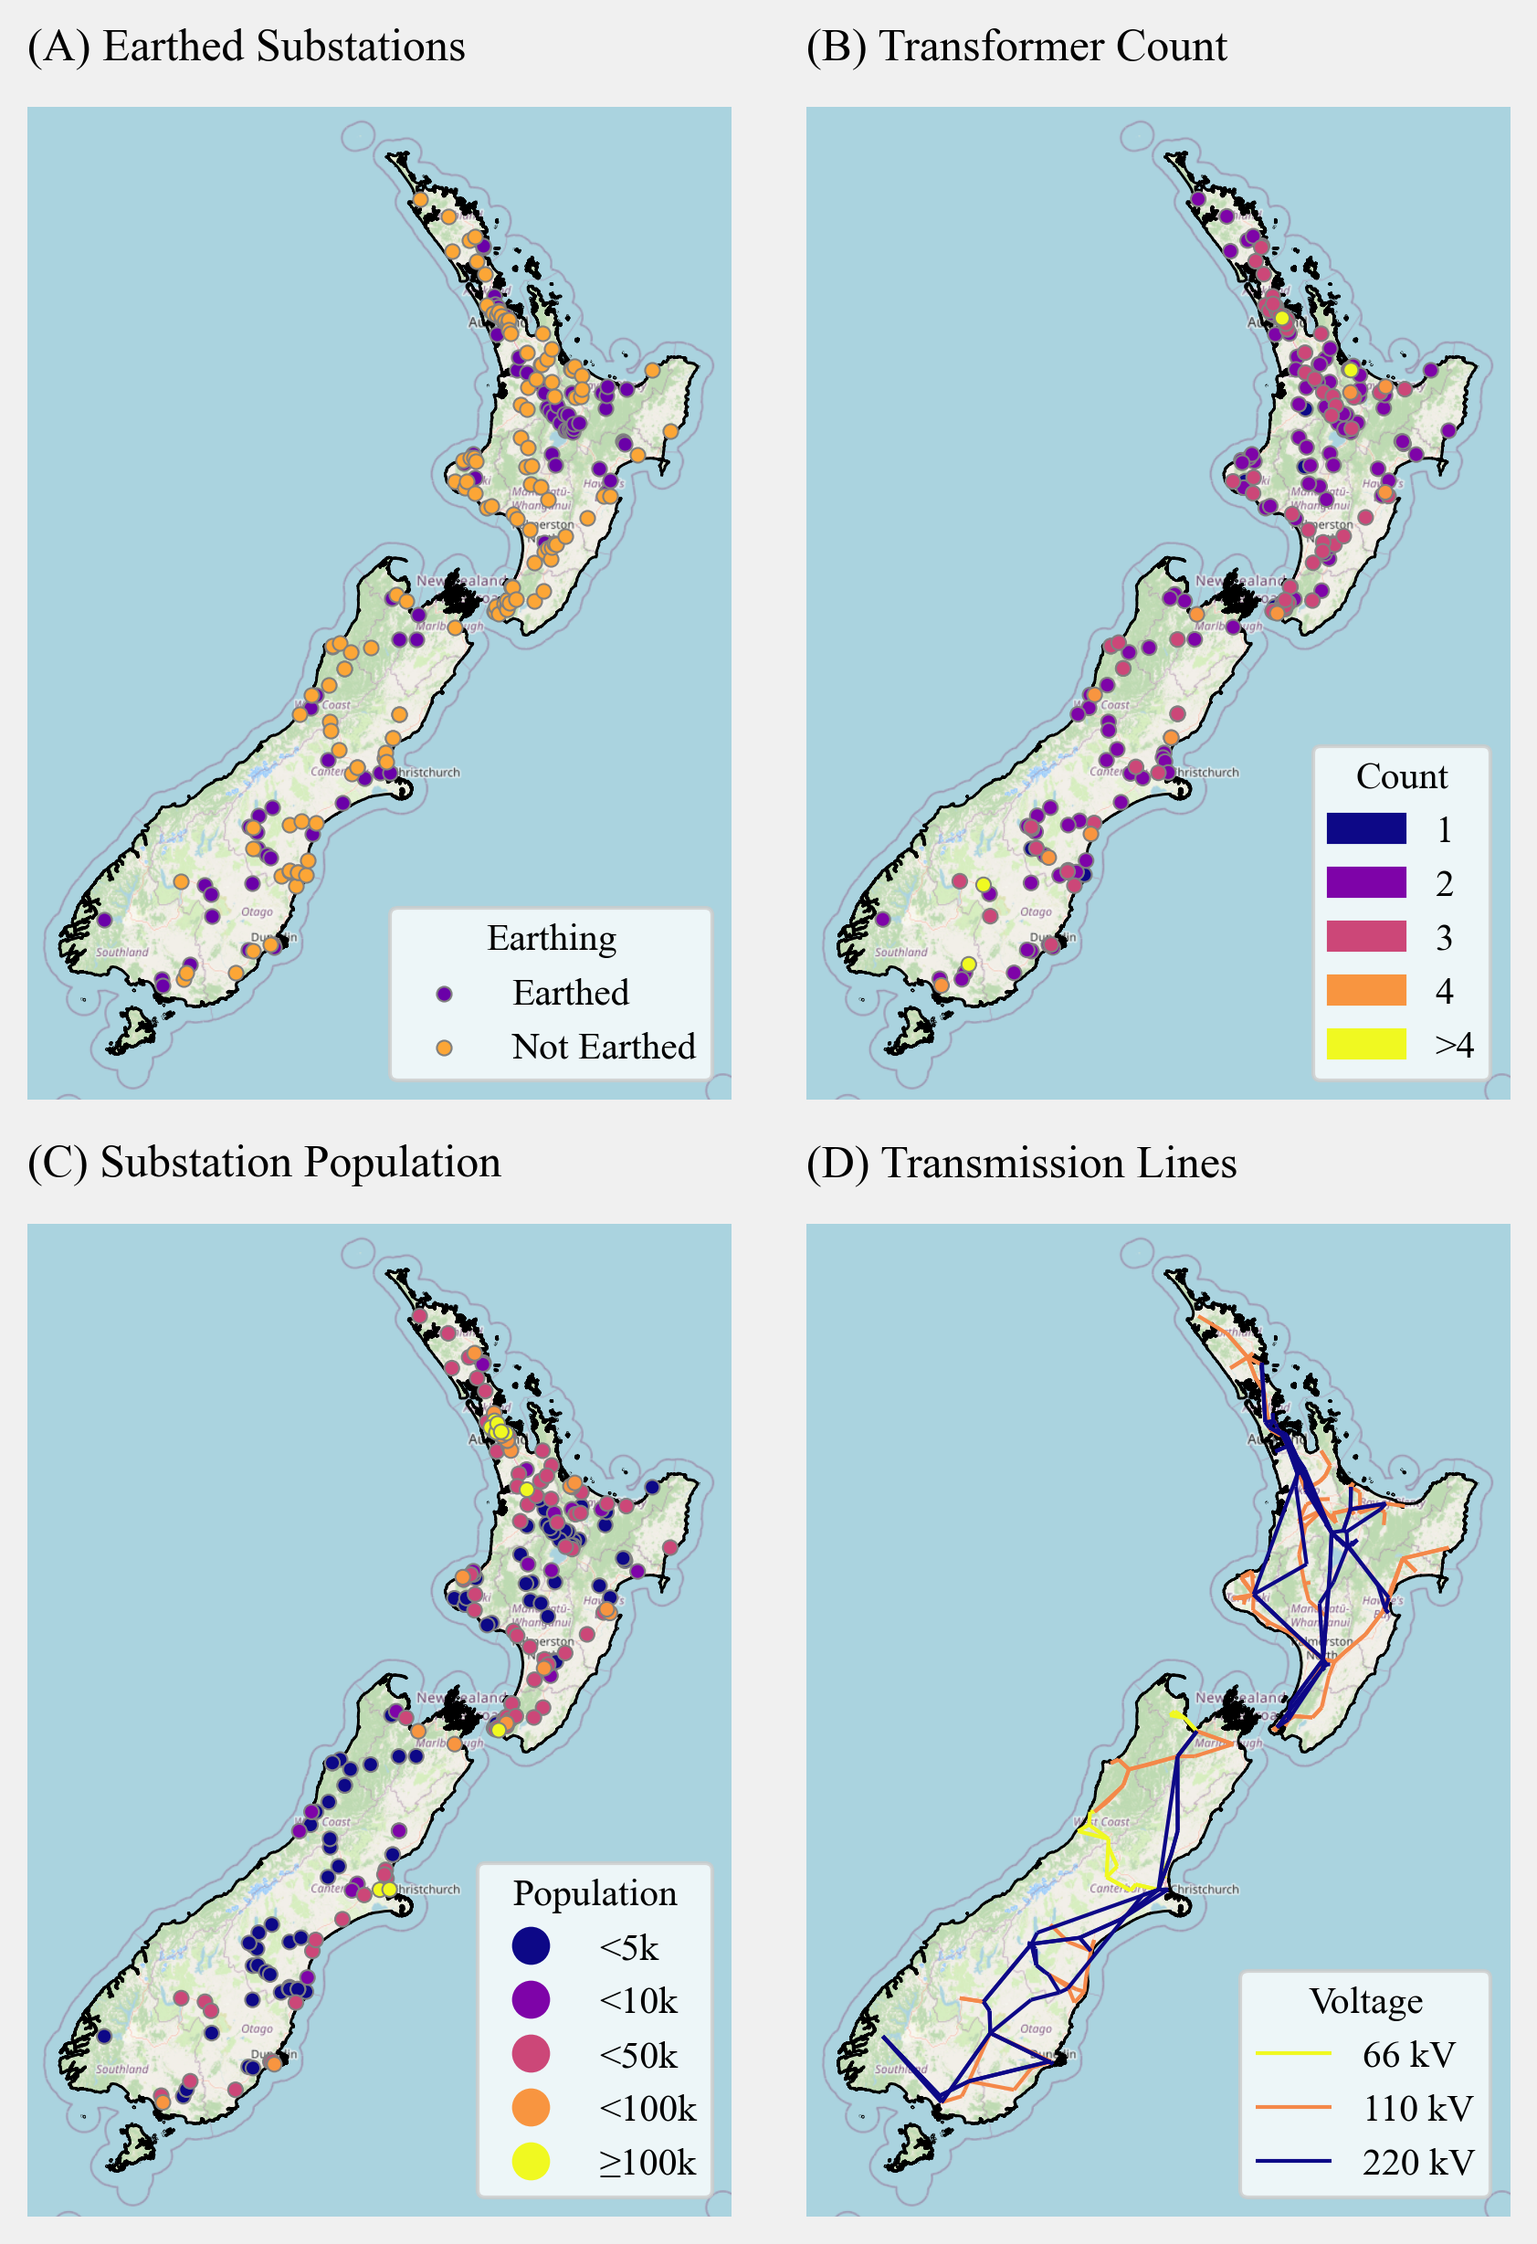
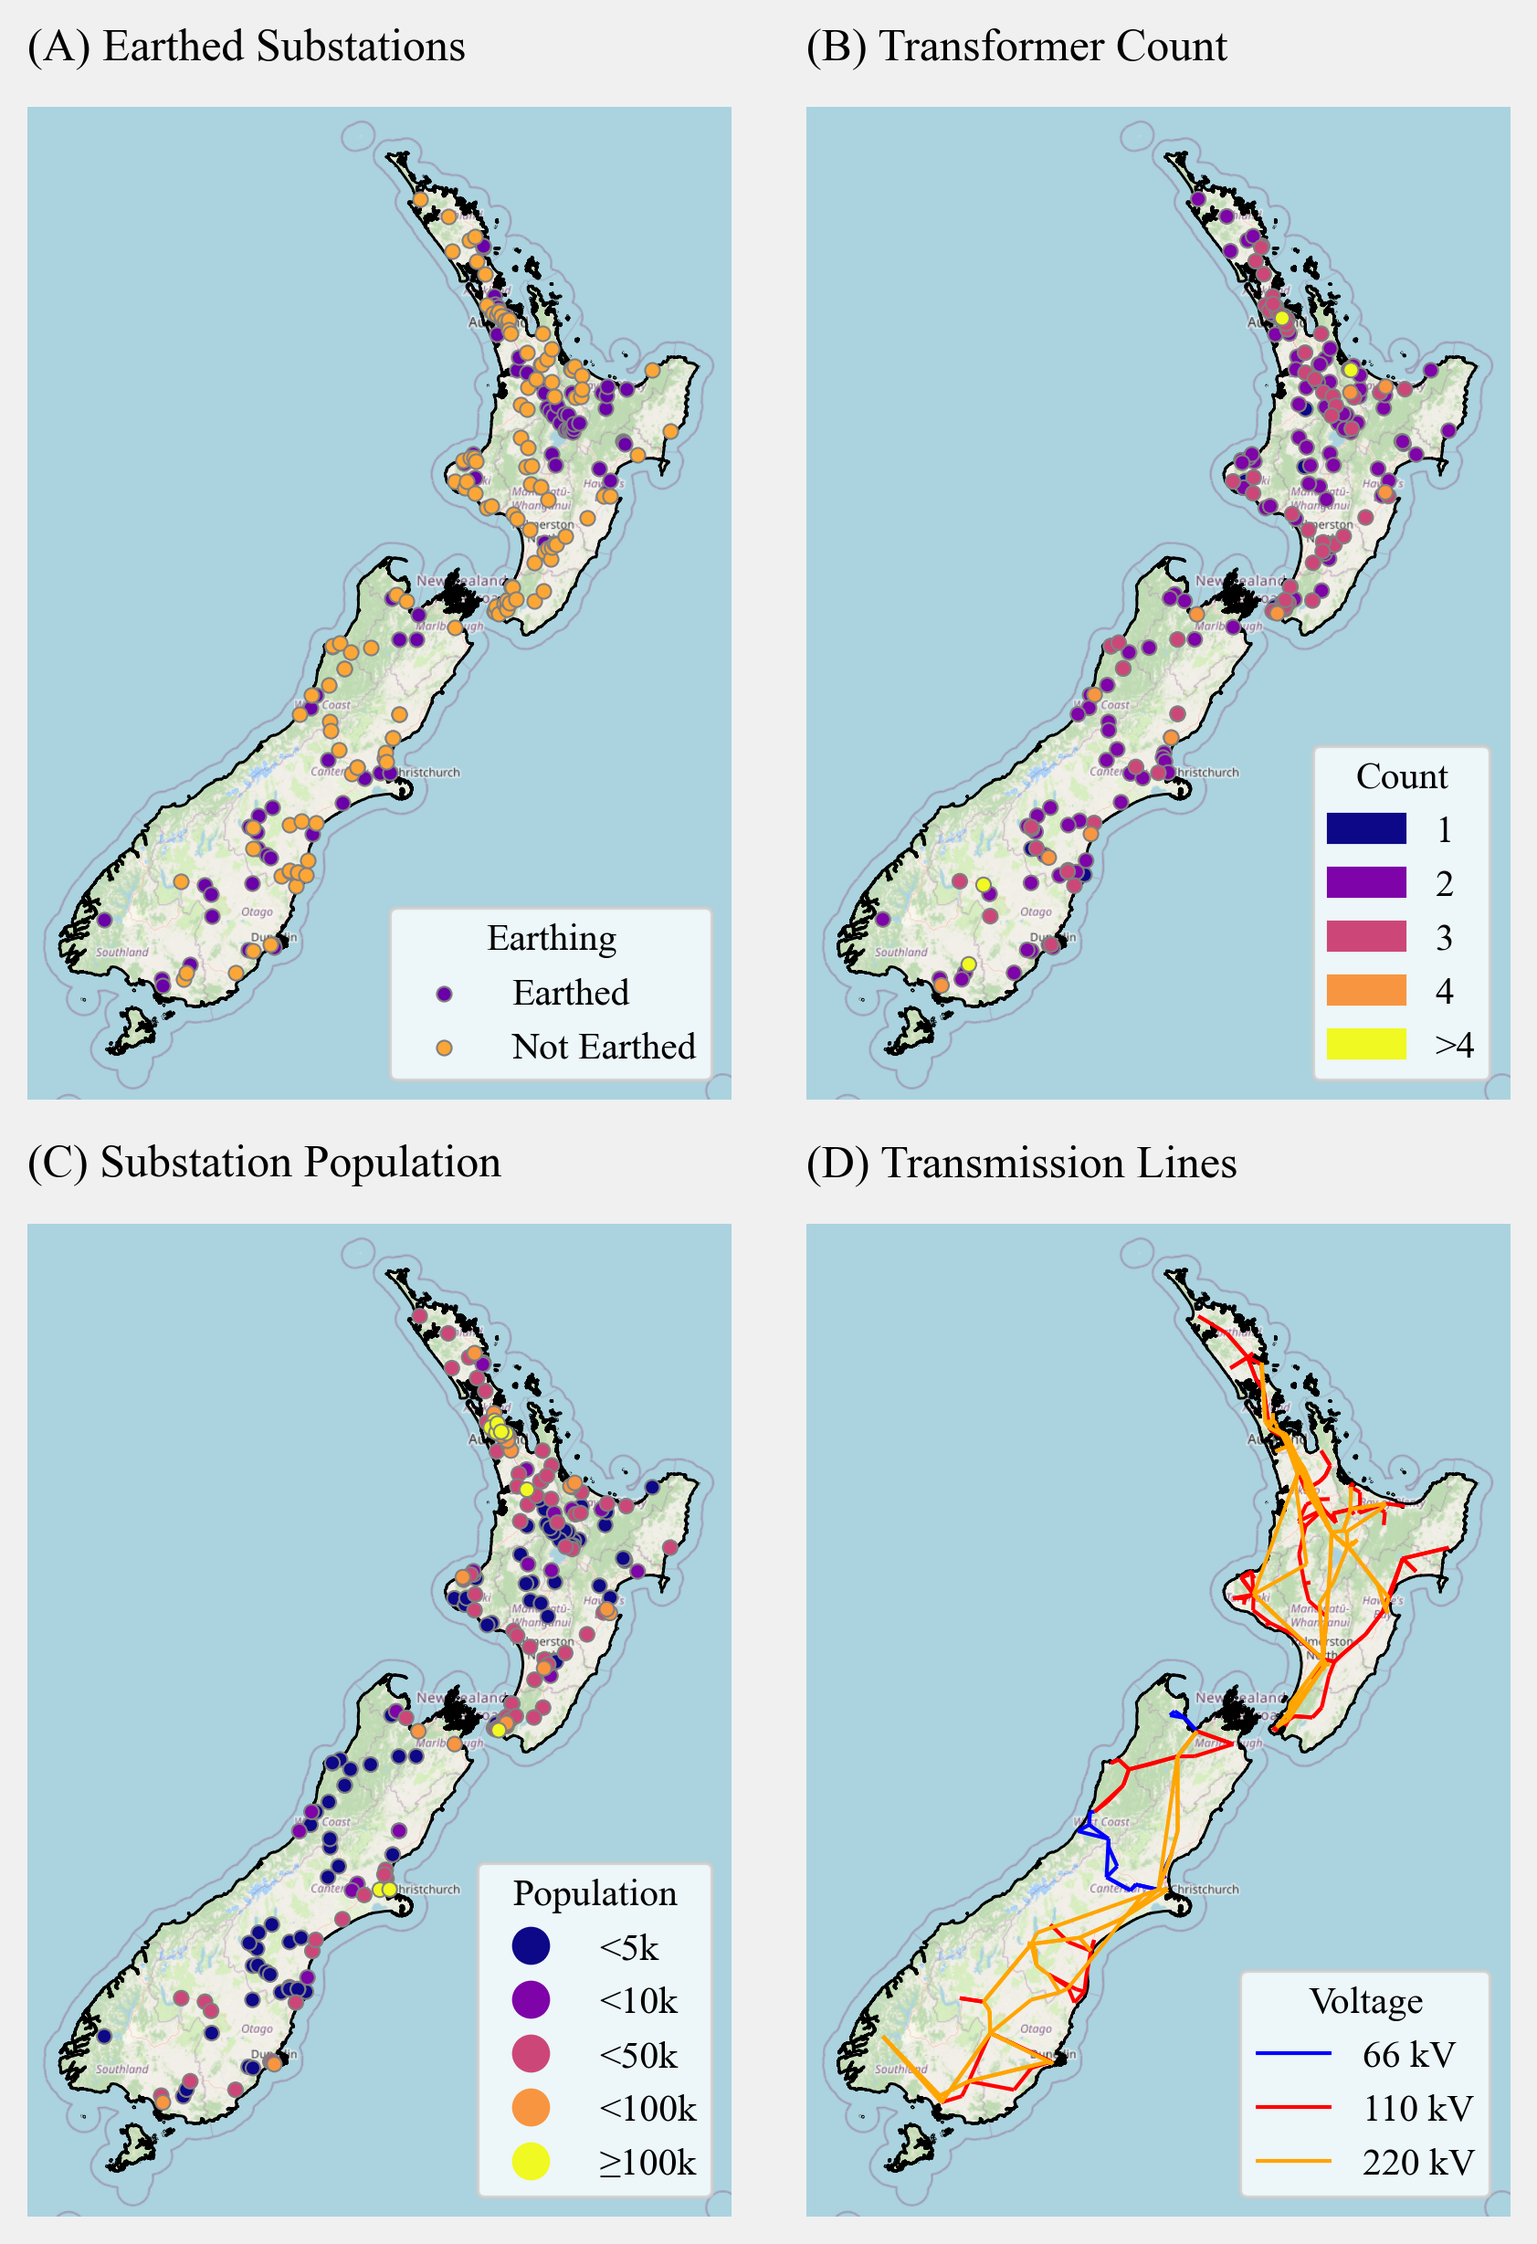
Revise scenarios

Changed region(s): [[0.6179, 0.7733, 0.8033, 0.928], [0.8033, 0.6496, 0.9269, 0.7733], [0.8033, 0.5877, 0.8342, 0.6496]]

diff --git a/scripts/preprocess.py b/scripts/preprocess.py
@@ -9,6 +9,7 @@ January 2025
 # import sys
 import os
 import configparser
+import numpy as np
 import pandas as pd
 import geopandas as gpd
 from shapely.geometry import Point, MultiPoint, LineString
@@ -20,7 +21,7 @@ from shapely.ops import voronoi_diagram
 from rasterstats import zonal_stats
 import pyproj
 from sklearn.neighbors import BallTree
-import numpy as np
+import networkx as nx
 
 CONFIG = configparser.ConfigParser()
 CONFIG.read(os.path.join(os.path.dirname(__file__),'..', 'scripts', 'script_config.ini'))
@@ -532,47 +533,6 @@ def process_lines(country):
     gdf.to_file(output_path)
 
 
-def process_scenario1(country):
-    """
-    
-    """
-    filename = 'population_by_node.gpkg'
-    folder = os.path.join(BASE_PATH, 'processed', 'NZL')
-    path_in = os.path.join(folder, filename)
-    data = gpd.read_file(path_in)
-
-    data['outage'] = 1
-    data['load_shedding'] = 0
-
-    filename = 'scenario1.csv'
-    folder = os.path.join(BASE_PATH, 'processed', 'NZL', 'scenarios')
-    os.makedirs(folder, exist_ok=True)
-    path_out = os.path.join(folder, filename)
-    data.to_csv(path_out)
-
-
-def process_scenario2(country):
-    """
-    
-    """
-    filename = 'population_by_node.gpkg'
-    folder = os.path.join(BASE_PATH, 'processed', 'NZL')
-    path_in = os.path.join(folder, filename)
-    data = gpd.read_file(path_in)
-
-    # Set outage = 1 for rows where island is 'north'
-    data.loc[data['island'] == 'north', 'outage'] = 1
-
-    # Set load_shedding = 1 for rows where island is 'south'
-    data.loc[data['island'] == 'south', 'load_shedding'] = 1
-
-    filename = 'scenario2.csv'
-    folder = os.path.join(BASE_PATH, 'processed', 'NZL', 'scenarios')
-    os.makedirs(folder, exist_ok=True)
-    path_out = os.path.join(folder, filename)
-    data.to_csv(path_out)
-
-
 def process_sioc_lut(country):
     """
     Extract SIOC lookup table
@@ -589,6 +549,284 @@ def process_sioc_lut(country):
     folder = os.path.join(DATA_PROCESSED, 'NZL')
     path_out = os.path.join(folder, filename)
     df.to_csv(path_out, index=False)
+
+
+def process_hydro_locations(country):
+    """
+    Process hydro locations.
+
+    """
+    filename = 'fuel_gen.csv'
+    folder = os.path.join(BASE_PATH, 'raw')
+    path_in = os.path.join(folder, filename)
+    data = pd.read_csv(path_in)
+    data = data[data['Fuel_Code'] == 'Hydro']
+
+    # Create geometry column from easting and northing
+    geometry = [Point(xy) for xy in zip(data["NZTM easting"], data["NZTM northing"])]
+
+    # Define the NZTM projection (EPSG:2193 is standard for NZTM2000)
+    gdf = gpd.GeoDataFrame(data, geometry=geometry, crs="EPSG:2193")
+    
+    filename = 'fuel_gen.gpkg'
+    folder = os.path.join(DATA_PROCESSED, 'NZL')
+    path_out = os.path.join(folder, filename)
+    gdf = gdf.to_crs(epsg=4326)
+    gdf.to_file(path_out)
+
+    return
+
+
+def generate_restoration_sequence(country):
+    """
+    Generate restoration sequence based on hydro locations and transmission lines.
+    """
+
+    # Load hydro sites
+    filename = 'fuel_gen.gpkg'
+    folder = os.path.join(DATA_PROCESSED, country['iso3'])
+    path_in = os.path.join(folder, filename)
+    hydro = gpd.read_file(path_in)
+    hydro = hydro.to_crs(2193)
+    hydro['geometry'] = hydro['geometry'].buffer(10)
+
+    # Load nodes
+    filename = 'population_by_node.gpkg'
+    path_in = os.path.join(folder, filename)
+    nodes = gpd.read_file(path_in)  # Assuming it's a GeoPackage
+    nodes = nodes.to_crs(2193)
+    nodes['restoration_stage'] = None  # Initialize restoration stage
+
+    # Load transmission lines
+    filename = 'transmission_lines.gpkg'
+    path_in = os.path.join(folder, filename)
+    lines = gpd.read_file(path_in)
+    lines = lines.to_crs(2193)
+    lines['geometry'] = lines['geometry'].buffer(100)
+
+    # Step 1: Hydro-intersecting nodes get stage 1
+    stage = 1
+    hydro_nodes = gpd.sjoin(nodes, hydro, predicate='intersects')
+    nodes.loc[hydro_nodes.index, 'restoration_stage'] = stage
+
+    # Build a connectivity graph from lines and nodes
+    G = nx.Graph()
+    for idx, row in nodes.iterrows():
+        G.add_node(idx, geometry=row.geometry)
+
+    for _, line in lines.iterrows():
+        intersecting_nodes = nodes[nodes.intersects(line.geometry)]
+        for i in range(len(intersecting_nodes)):
+            for j in range(i + 1, len(intersecting_nodes)):
+                a, b = intersecting_nodes.index[i], intersecting_nodes.index[j]
+                if not G.has_edge(a, b):
+                    dist = nodes.loc[a].geometry.distance(nodes.loc[b].geometry)
+                    G.add_edge(a, b, weight=dist)
+
+    # BFS to assign restoration stages
+    visited = set(hydro_nodes.index)
+    queue = list(hydro_nodes.index)
+    current_stage = 2
+
+    while queue:
+        next_queue = []
+        for node in queue:
+            for neighbor in G.neighbors(node):
+                if neighbor not in visited:
+                    visited.add(neighbor)
+                    nodes.at[neighbor, 'restoration_stage'] = current_stage
+                    next_queue.append(neighbor)
+        queue = next_queue
+        current_stage += 1
+
+    filename = 'restoration_sequence.gpkg'
+    folder = os.path.join(DATA_PROCESSED, 'NZL')
+    path_out = os.path.join(folder, filename)
+    nodes = nodes.to_crs(epsg=4326)
+    nodes.to_file(path_out)
+
+
+def process_scenario1(country):
+    """
+    Write a scenario with a 7-day power outage duration (d1-d7), as follows:
+
+    - d1, d2, d3: full blackout (1 = no power)
+    - d4 to d7: restoration begins, based on the "restoration_stage" column
+    - by d7, all areas have power (0 = power restored)
+
+    """
+    filename = 'restoration_sequence.gpkg'
+    folder = os.path.join(BASE_PATH, 'processed', 'NZL')
+    path_in = os.path.join(folder, filename)
+    data = gpd.read_file(path_in)
+
+    # Normalize restoration_stage to [0, 1]
+    data = data.copy()
+    if 'restoration_stage' not in data.columns:
+        raise ValueError("'restoration_stage' column not found in input data")
+
+    data['restoration_stage'] = pd.to_numeric(data['restoration_stage'], errors='coerce')
+    min_stage = data['restoration_stage'].min()
+    max_stage = data['restoration_stage'].max()
+    data['normalized_stage'] = ((data['restoration_stage'] - min_stage) / (max_stage - min_stage)) ** 0.5
+
+    # Days 1-3: Full blackout
+    for day in range(1, 4):
+        data[f'd{day}'] = 1
+
+    # Days 4-7: Gradual restoration
+    for day in range(4, 8):
+        threshold = (day - 3) / 4  # 0.25 for d4, 0.5 for d5, 0.75 for d6, 1.0 for d7
+        data[f'd{day}'] = (data['normalized_stage'] > threshold).astype(int)
+
+    # Drop helper column
+    data = data.drop(columns=['normalized_stage'])
+
+    # Save to CSV
+    filename = 'scenario1.csv'
+    folder = os.path.join(BASE_PATH, 'processed', 'NZL', 'scenarios')
+    os.makedirs(folder, exist_ok=True)
+    path_out = os.path.join(folder, filename)
+    data.to_csv(path_out, index=False)
+
+
+def process_scenario2(country):
+    """
+    Write a scenario with a 7-day power outage duration (d1-d7), as follows:
+
+    South Island (data['island'] == 'south'):
+    - d1-d3: full blackout (1 = no power),
+    - d4-d7: restoration begins, based on the "restoration_stage" column
+    - by d7, all areas have power (0 = power restored)
+
+    North Island (data['island'] == 'north'):
+    - d1-d7: load shedding of 20% (0.2 = load shedding),
+    - by d7, all areas have power (0 = power restored)
+
+    """
+    filename = 'restoration_sequence.gpkg'
+    folder = os.path.join(BASE_PATH, 'processed', 'NZL')
+    path_in = os.path.join(folder, filename)
+    data = gpd.read_file(path_in)
+
+    if 'restoration_stage' not in data.columns:
+        raise ValueError("'restoration_stage' column not found in input data")
+    if 'island' not in data.columns:
+        raise ValueError("'island' column not found in input data")
+
+    data = data.copy()
+    data['restoration_stage'] = pd.to_numeric(data['restoration_stage'], errors='coerce')
+
+    # Normalize restoration stage only for South Island (recovery case)
+    south_mask = data['island'].str.lower() == 'south'
+    data.loc[south_mask, 'normalized_stage'] = (
+        data.loc[south_mask].groupby('island')['restoration_stage'].transform(
+            lambda x: ((x - x.min()) / (x.max() - x.min())) ** 0.4
+        )
+    )
+
+    # Assign outage values for each day
+    for day in range(1, 8):
+        col = f'd{day}'
+
+        # South Island logic
+        if day <= 3:
+            data.loc[south_mask, col] = 1  # Full blackout
+        else:
+            threshold = (day - 3) / 4  # Gradual recovery d4–d7
+            data.loc[south_mask, col] = (data.loc[south_mask, 'normalized_stage'] > threshold).astype(int)
+
+        # North Island logic
+        if day <= 6:
+            data.loc[~south_mask, col] = 0.2  # Load shedding
+        else:
+            data.loc[~south_mask, col] = 0  # Fully restored
+
+    # Clean up
+    data = data.drop(columns=['normalized_stage'])
+
+    # Save to CSV
+    filename = 'scenario2.csv'
+    folder = os.path.join(BASE_PATH, 'processed', 'NZL', 'scenarios')
+    os.makedirs(folder, exist_ok=True)
+    path_out = os.path.join(folder, filename)
+    data.to_csv(path_out, index=False)
+
+
+def process_scenario3(country):
+    """
+    Write a scenario with a 7-day power outage duration (d1-d7), as follows:
+
+    Nodes with max GIC values >500 A fail (e.g., data['GIC [A](max).1'] > 500):
+    - d1-d3: full blackout (1 = no power),
+    - d4-d7: restoration begins, based on the "restoration_stage" column
+    - by d7, all areas have power (0 = power restored)
+
+    For nodes not affected in the North Island (data['island'] == 'north'):
+    - d1-d6: load shedding of 20% (0.2 = partial outage),
+    - d7: all areas have power (0 = power restored)
+    """
+
+    filename = 'restoration_sequence.gpkg'
+    folder = os.path.join(BASE_PATH, 'processed', 'NZL')
+    path_in = os.path.join(folder, filename)
+    data = gpd.read_file(path_in)
+
+    data = data.copy()
+
+    # Ensure required columns exist
+    if 'GIC [A](max).1' not in data.columns:
+        raise ValueError("'GIC [A](max).1' column not found in input data")
+    if 'restoration_stage' not in data.columns:
+        raise ValueError("'restoration_stage' column not found in input data")
+    if 'island' not in data.columns:
+        raise ValueError("'island' column not found in input data")
+
+    # Parse columns
+    data['restoration_stage'] = pd.to_numeric(data['restoration_stage'], errors='coerce')
+    data['GIC_max'] = pd.to_numeric(data['GIC [A](max).1'], errors='coerce')
+
+    # Identify affected nodes
+    fail_mask = data['GIC_max'] > 500
+    north_mask = data['island'].str.lower() == 'north'
+    unaffected_north_mask = ~fail_mask & north_mask
+
+    # Normalize restoration stage for affected (failed) nodes only
+    data.loc[fail_mask, 'normalized_stage'] = (
+        data.loc[fail_mask].groupby('island')['restoration_stage']
+        .transform(lambda x: ((x - x.min()) / (x.max() - x.min())) ** 0.4)
+    )
+
+    # Initialize all days
+    for day in range(1, 8):
+        col = f'd{day}'
+
+        # Affected nodes (failures)
+        if day <= 3:
+            data.loc[fail_mask, col] = 1  # full blackout
+        else:
+            threshold = (day - 3) / 4  # 0.25, 0.5, 0.75, 1.0 for d4–d7
+            data.loc[fail_mask, col] = (data.loc[fail_mask, 'normalized_stage'] > threshold).astype(int)
+
+        # Unaffected North Island nodes
+        if day <= 6:
+            data.loc[unaffected_north_mask, col] = 0.2  # load shedding
+        else:
+            data.loc[unaffected_north_mask, col] = 0  # fully restored by d7
+
+        # All others (not affected, not north island): assume full power
+        untouched_mask = ~(fail_mask | unaffected_north_mask)
+        data.loc[untouched_mask, col] = 0
+
+    # Clean up
+    data = data.drop(columns=['normalized_stage', 'GIC_max'])
+
+    # Save to CSV
+    filename = 'scenario3.csv'
+    folder = os.path.join(BASE_PATH, 'processed', 'NZL', 'scenarios')
+    os.makedirs(folder, exist_ok=True)
+    path_out = os.path.join(folder, filename)
+    data.to_csv(path_out, index=False)
 
 
 if __name__ == "__main__":
@@ -630,11 +868,20 @@ if __name__ == "__main__":
         # print('Process lines')
         # process_lines(country)
 
+        # print('processing process_sioc_lut')
+        # process_sioc_lut(country)
+
+        # print('processing process_hydro_locations')
+        # process_hydro_locations(country)
+
+        # print('processing generate_restoration_sequence')
+        # generate_restoration_sequence(country)
+
         # print('processing process_scenario1')
         # process_scenario1(country)
 
-        # print('processing process_scenario2')
+        # # print('processing process_scenario2')
         # process_scenario2(country)
 
-        print('processing process_sioc_lut')
-        process_sioc_lut(country)
+        print('processing process_scenario3')
+        process_scenario3(country)

diff --git a/vis/vis.py b/vis/vis.py
@@ -125,9 +125,12 @@ def plot_panel():
         110: '110 kV',
         220: '220 kV'
     }
-    cmap = cm.get_cmap('plasma_r')
-    norm = mcolors.Normalize(vmin=min(voltages), vmax=max(voltages))
-    voltage_colors = {v: cmap(norm(v)) for v in voltages}
+    # Define TP Std colors
+    voltage_colors = {
+        66: 'blue',
+        110: 'red',
+        220: 'orange'
+    }
     national_outline.plot(ax=axs[1, 1], edgecolor='black', facecolor='none', linewidth=.7)
     for voltage in voltages:
         subset = lines[lines['Voltage (kV)'] == voltage]
@@ -337,6 +340,6 @@ if __name__ == "__main__":
 
     plot_panel()
 
-    plot_aggregate_costs()
+    # plot_aggregate_costs()
 
-    plot_sector_costs()
+    # plot_sector_costs()
